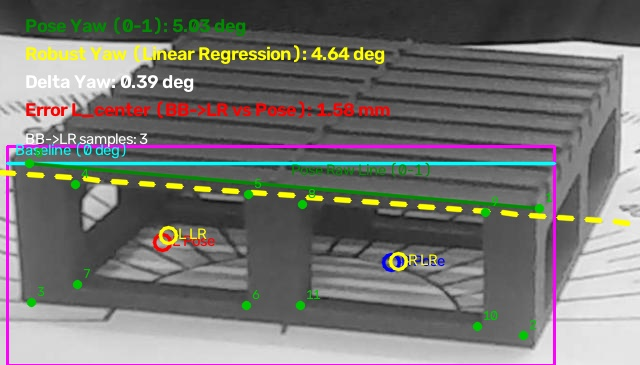
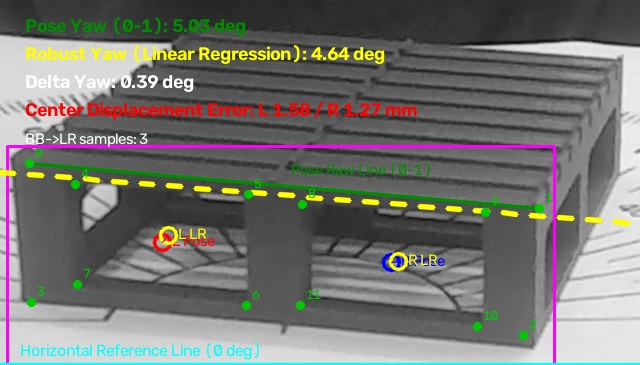
Optimize pallet yaw geometry diagnostics

diff --git a/4_linear_regression_fit.py b/4_linear_regression_fit.py
@@ -10,7 +10,8 @@ IMAGE_DIR = Path(r"D:\TANGCUONGANH\val\images")
 OUTPUT_DIR = Path(__file__).resolve().parent
 CONFIDENCE = 0.5
 PALLET_WIDTH_MM = 90.0
-TOP_EDGE_KEYPOINTS = [0, 1, 4, 5, 8, 9]
+TOP_EDGE_KEYPOINTS = [0, 4, 5, 8, 9, 1]
+BOTTOM_KEYPOINTS = [2, 3]
 LEFT_CENTER_KEYPOINTS = [4, 5, 6, 7]
 RIGHT_CENTER_KEYPOINTS = [8, 9, 10, 11]
 
@@ -70,6 +71,21 @@ def fit_top_edge_yaw(keypoints):
     slope, intercept = np.polyfit(x_values, y_values, 1)
     yaw = float(np.degrees(np.arctan(slope)))
     return yaw, float(slope), float(intercept)
+
+
+def get_bottom_reference_y(keypoints, box):
+    bottom_keypoints = keypoints[BOTTOM_KEYPOINTS]
+    valid_bottom = bottom_keypoints[np.isfinite(bottom_keypoints).all(axis=1)]
+    keypoint_y = float(np.max(valid_bottom[:, 1])) if len(valid_bottom) else -np.inf
+    return float(max(keypoint_y, box[3]))
+
+
+def draw_horizontal_reference_axis(image, y_value):
+    height, width = image.shape[:2]
+    y_pixel = int(np.clip(round(y_value), 0, height - 1))
+    cv2.line(image, (0, y_pixel), (width - 1, y_pixel), BASELINE, 2, cv2.LINE_AA)
+    draw_text(image, "Horizontal Reference Line (0 deg)", (20, max(22, y_pixel - 8)), BASELINE, 0.55, 1)
+    return y_pixel
 
 
 def get_detection(result):
@@ -141,25 +157,9 @@ def draw_result(image, detection, predicted_centers, sample_index, center_model,
     raw_yaw = float(
         np.degrees(np.arctan2(point_right[1] - point_left[1], point_right[0] - point_left[0]))
     )
-    # The horizontal baseline is the 0-degree reference for both angle calculations.
-    baseline_start = np.array([x_min, point_left[1]], dtype=np.float32)
-    baseline_end = np.array([x_max, point_left[1]], dtype=np.float32)
-    cv2.line(
-        image,
-        tuple(np.round(baseline_start).astype(int)),
-        tuple(np.round(baseline_end).astype(int)),
-        BASELINE,
-        2,
-        cv2.LINE_AA,
-    )
-    draw_text(
-        image,
-        "Baseline (0 deg)",
-        baseline_start + np.array([8.0, -8.0]),
-        BASELINE,
-        0.5,
-        1,
-    )
+    # Use the lowest detected pallet coordinate as the absolute 0-degree reference.
+    bottom_y = get_bottom_reference_y(keypoints, box)
+    draw_horizontal_reference_axis(image, bottom_y)
     cv2.line(
         image,
         tuple(np.round(point_left).astype(int)),
@@ -204,10 +204,29 @@ def draw_result(image, detection, predicted_centers, sample_index, center_model,
         cv2.circle(image, point_xy, 8, color, 2, cv2.LINE_AA)
         draw_text(image, label, point_xy + np.array([10, 4]), color, 0.5, 1)
 
+    cv2.line(
+        image,
+        tuple(np.round(pose_left).astype(int)),
+        tuple(np.round(predicted_left).astype(int)),
+        RED,
+        1,
+        cv2.LINE_AA,
+    )
+    cv2.line(
+        image,
+        tuple(np.round(pose_right).astype(int)),
+        tuple(np.round(predicted_right).astype(int)),
+        BLUE,
+        1,
+        cv2.LINE_AA,
+    )
+
     pixel_width = float(np.linalg.norm(point_right - point_left))
     mm_per_pixel = PALLET_WIDTH_MM / pixel_width if pixel_width > 0.0 else 0.0
     error_l_pixels = float(np.linalg.norm(predicted_left - pose_left))
+    error_r_pixels = float(np.linalg.norm(predicted_right - pose_right))
     error_l_mm = error_l_pixels * mm_per_pixel
+    error_r_mm = error_r_pixels * mm_per_pixel
 
     delta_yaw = abs(raw_yaw - robust_yaw) if robust_yaw is not None else None
     draw_text(image, f"Pose Yaw (0-1): {raw_yaw:.2f} deg", (25, 32), POSE_GREEN)
@@ -215,10 +234,15 @@ def draw_result(image, detection, predicted_centers, sample_index, center_model,
     draw_text(image, f"Robust Yaw (Linear Regression): {robust_text} deg", (25, 60), YELLOW)
     delta_text = f"{delta_yaw:.2f}" if delta_yaw is not None else "N/A"
     draw_text(image, f"Delta Yaw: {delta_text} deg", (25, 88), WHITE)
-    draw_text(image, f"Error L_center (BB->LR vs Pose): {error_l_mm:.2f} mm", (25, 116), RED)
+    draw_text(
+        image,
+        f"Center Displacement Error: L {error_l_mm:.2f} / R {error_r_mm:.2f} mm",
+        (25, 116),
+        RED,
+    )
     draw_text(image, f"BB->LR samples: {sample_count}", (25, 144), WHITE, 0.5, 1)
 
-    return raw_yaw, robust_yaw, delta_yaw, error_l_mm
+    return raw_yaw, robust_yaw, delta_yaw, error_l_mm, error_r_mm
 
 
 def main():
@@ -246,7 +270,7 @@ def main():
 
         image = result.orig_img.copy()
         predicted_centers = leave_one_out_prediction(samples, sample_index, center_model)
-        raw_yaw, robust_yaw, delta_yaw, error_l_mm = draw_result(
+        raw_yaw, robust_yaw, delta_yaw, error_l_mm, error_r_mm = draw_result(
             image,
             detection,
             predicted_centers,
@@ -262,7 +286,7 @@ def main():
             f"Image {image_index}: Pose Yaw (Raw)={raw_yaw:.2f} deg, "
             f"Robust Yaw (Linear Regression)={robust_yaw:.2f} deg, "
             f"Delta Yaw={delta_yaw:.2f} deg, "
-            f"Error L_center={error_l_mm:.2f} mm -> {output_path}"
+            f"Center Displacement Error L/R={error_l_mm:.2f}/{error_r_mm:.2f} mm -> {output_path}"
         )
         saved_count += 1
         sample_index += 1
